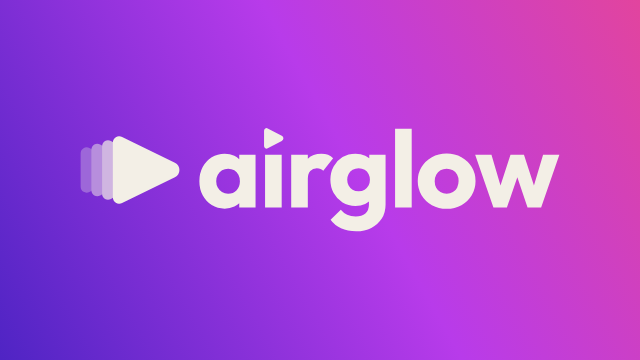
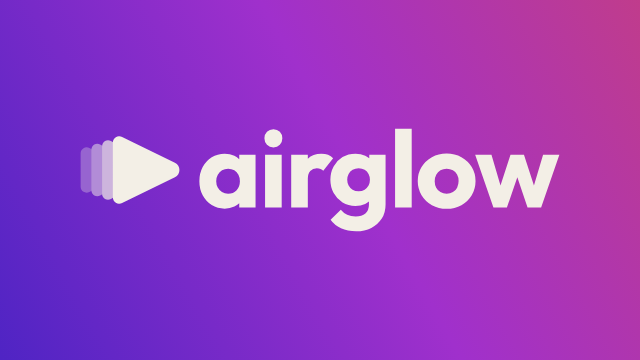
Brand v5.4 final fixes and UI phase: work in progress
Claude-Session: https://claude.ai/code/session_015UgfZhFtzJizh9RMWRrN9x

diff --git a/design/brand-v5/v5.4/tools/assets3.js b/design/brand-v5/v5.4/tools/assets3.js
@@ -6,7 +6,11 @@ const W = (s, vb, w, h) => `<svg xmlns="http://www.w3.org/2000/svg" viewBox="${v
 // ---- mark (on canvas / dark) and small mark (<= 40 px: two bands, wider steps) ----
 const mark = () => M3.svgMark('mk', FINAL, 6);
 const markSmall = () => M3.svgMark('ms', SMALL, 5);
-const lockup = () => L3.lockupSvg('lk', 'A', { lk: { gap: GAP } });
+const lockup = () => L3.lockupSvg('lk', 'A', { lk: { gap: GAP } });                                   // 40 px and up, on bg-0: gradient glow, wedge i-dot
+const lockupCompact = () => L3.lockupSvg('lc', 'A', { lk: { gap: GAP }, word: { dot: false } });         // under 40 px: round i-dot
+const CH = P['text-1'], chalkBands = [.3, .5, .7].map(a => `${CH}" fill-opacity="${a}`);
+const lockupChalk = () => L3.lockupSvg('ch', 'A', { lk: { gap: GAP }, mark: { frontFill: CH, bandFills: chalkBands }, word: { split: false, dot: true, dotFill: CH } });        // any surface except bg-0, 40 px and up
+const lockupChalkCompact = () => L3.lockupSvg('cc', 'A', { lk: { gap: GAP }, mark: { frontFill: CH, bandFills: chalkBands }, word: { split: false, dot: false } });   // any surface, under 40 px
 // ---- icon: deepened tile (violet to orchid to deep pink) + chalk wedge + solid chalk-tint bands ----
 const S_ICON = 3.5, BANDS = [.3, .5, .7]; I3.V.F1.band = BANDS;
 const icon = () => I3.iconSvg('F1', 512, S_ICON);
@@ -19,15 +23,15 @@ const iconBg = () => { const p = I3.iconParts('F1', 108, FG_S); return W(`<defs>
 // mark-micro: plain gradient wedge for under 24 px (no bands)
 const markMicro = () => { const M2 = require('./mark2.js'); const d = M2.tri(0, -35, 35, FINAL.L, FINAL.ra, FINAL.rb); return W(`<defs><linearGradient id="mi" x1="0" y1="-35" x2="${FINAL.L}" y2="35" gradientUnits="userSpaceOnUse"><stop offset="0" stop-color="${P.pink}"/><stop offset="1" stop-color="${P.orchid}"/></linearGradient></defs><path d="${d}" fill="url(#mi)"/>`, `-3 -38 ${FINAL.L + 6} 76`, FINAL.L + 6, 76); };
 // ---- banners 320x180: the primary is the icon's sibling (same ramp, chalk wedge + chalk-tint solid bands, chalk wordmark); the dark one is the alternative ----
-const banner = () => { const stops = I3.TILES.family, vx = 320, vy = -180, field = (x, y) => { const t = Math.max(0, Math.min(1, (x * vx + (y - 180) * vy) / (vx * vx + vy * vy))); const seg = (a, b, u) => I3.mixRgb(I3.hx(a), I3.hx(b), u); for (let i = 1; i < stops.length; i++) if (t <= stops[i][0]) return seg(stops[i - 1][1], stops[i][1], (t - stops[i - 1][0]) / (stops[i][0] - stops[i - 1][0])); return I3.hx(stops[stops.length - 1][1]); };
+const banner = () => { const stops = I3.TILES.banner, vx = 320, vy = -180, field = (x, y) => { const t = Math.max(0, Math.min(1, (x * vx + (y - 180) * vy) / (vx * vx + vy * vy))); const seg = (a, b, u) => I3.mixRgb(I3.hx(a), I3.hx(b), u); for (let i = 1; i < stops.length; i++) if (t <= stops[i][0]) return seg(stops[i - 1][1], stops[i][1], (t - stops[i - 1][0]) / (stops[i][0] - stops[i - 1][0])); return I3.hx(stops[stops.length - 1][1]); };
   const w = 244, chalk = P['text-1'], l0 = L3.lockup('x', 'A', { lk: { gap: GAP } }), sc = w / l0.vb[2], ox = (320 - w) / 2, oy = (180 - l0.vb[3] * sc) / 2;
   const cols = [0, 1, 2].map(i => I3.toHex(I3.mixRgb(field(ox + (8 + i * 14) * sc, 90), I3.hx(chalk), [.3, .5, .7][i])));
-  const l = L3.lockup('bg', 'A', { lk: { gap: GAP }, mark: { frontFill: chalk, bandFills: cols }, word: { split: false, dot: true, dotFill: chalk } });
+  const l = L3.lockup('bg', 'A', { lk: { gap: GAP }, mark: { frontFill: chalk, bandFills: cols }, word: { split: false, dot: false } });
   return W(`<defs><linearGradient id="bgf" x1="0" y1="180" x2="320" y2="0" gradientUnits="userSpaceOnUse">${stops.map(([t, h]) => `<stop offset="${t}" stop-color="${h}"/>`).join('')}</linearGradient></defs><rect width="320" height="180" fill="url(#bgf)"/><svg x="${r(ox)}" y="${r(oy)}" width="${r(w)}" height="${r(l.vb[3] * sc)}" viewBox="${l.vb.map(r).join(' ')}">${l.body}</svg>`, '0 0 320 180', 320, 180); };
-const bannerDark = () => { const l = L3.lockup('bn', 'A', { lk: { gap: GAP } }); const w = 236, sc = w / l.vb[2], h = l.vb[3] * sc;
+const bannerDark = () => { const l = L3.lockup('bn', 'A', { lk: { gap: GAP }, word: { dot: false } }); const w = 236, sc = w / l.vb[2], h = l.vb[3] * sc;
   return W(`<rect width="320" height="180" fill="${P['bg-0']}"/><svg x="${r((320 - w) / 2)}" y="${r((180 - h) / 2)}" width="${r(w)}" height="${r(h)}" viewBox="${l.vb.map(r).join(' ')}">${l.body}</svg>`, '0 0 320 180', 320, 180); };
 function writeAll() { fs.mkdirSync(dir, { recursive: true });
-  const f = { 'mark.svg': mark(), 'mark-small.svg': markSmall(), 'lockup.svg': lockup(), 'icon-1024.svg': icon(), 'icon-small.svg': iconSmall(), 'icon-foreground.svg': iconFg(), 'icon-background.svg': iconBg(), 'banner.svg': banner(), 'banner-dark.svg': bannerDark(), 'mark-micro.svg': markMicro() };
+  const f = { 'mark.svg': mark(), 'mark-small.svg': markSmall(), 'lockup.svg': lockup(), 'lockup-compact.svg': lockupCompact(), 'lockup-chalk.svg': lockupChalk(), 'lockup-chalk-compact.svg': lockupChalkCompact(), 'icon-1024.svg': icon(), 'icon-small.svg': iconSmall(), 'icon-foreground.svg': iconFg(), 'icon-background.svg': iconBg(), 'banner.svg': banner(), 'banner-dark.svg': bannerDark(), 'mark-micro.svg': markMicro() };
   for (const [k, v] of Object.entries(f)) fs.writeFileSync(path.join(dir, k), v); console.log('assets written', Object.keys(f).length); }
-module.exports = { mark, markSmall, markMicro, lockup, icon, iconSmall, iconFg, iconBg, banner, bannerDark, writeAll, get FG_S() { return FG_S; } };
+module.exports = { lockupCompact, lockupChalk, mark, markSmall, markMicro, lockup, icon, iconSmall, iconFg, iconBg, banner, bannerDark, writeAll, get FG_S() { return FG_S; } };
 if (require.main === module) writeAll();

diff --git a/design/brand-v5/v5.4/board.html b/design/brand-v5/v5.4/board.html
@@ -32,6 +32,8 @@ h2{font:650 11px/16px var(--a-font-text);letter-spacing:.12em;text-transform:upp
 
 <div class="card" style="margin-bottom:18px"><h2>Wordmark options (tests/word-refine.png, large / 32 px / 19 px / blur)</h2><div class="fl" style="gap:18px;flex-direction:column;align-items:flex-start"><div class="fl" style="gap:22px"><img src="tests/word-W0.svg" style="height:56px"><img src="tests/word-W0.svg" style="height:24px"><div class="cap" style="margin:0"><b style="color:var(--a-text-1)">W0</b> v5.3: stock, all chalk, the "ai" read</div></div><div class="fl" style="gap:22px"><img src="tests/word-W1.svg" style="height:56px"><img src="tests/word-W1.svg" style="height:24px"><div class="cap" style="margin:0"><b style="color:var(--a-text-1)">W1</b> air chalk, glow in the pink to orchid gradient</div></div><div class="fl" style="gap:22px"><img src="tests/word-W2.svg" style="height:56px"><img src="tests/word-W2.svg" style="height:24px"><div class="cap" style="margin:0"><b style="color:var(--a-text-1)">W2</b> W1 + tracking -2%</div></div><div class="fl" style="gap:22px"><img src="tests/word-W3.svg" style="height:56px"><img src="tests/word-W3.svg" style="height:24px"><div class="cap" style="margin:0"><b style="color:var(--a-text-1)">W3</b> chosen: W2 + the i-dot is the mark wedge</div></div></div></div>
 
+<div class="card" style="margin-bottom:18px"><h2>Lockup set (which file where)</h2><div class="fl" style="gap:22px;align-items:flex-start"><div><img src="assets/lockup.svg" style="height:44px"><div class="cap">lockup.svg: 40 px high and up, on bg-0 only (gradient glow, wedge i-dot)</div></div><div><img src="assets/lockup-compact.svg" style="height:30px"><div class="cap">lockup-compact.svg: under 40 px and the banner, bg-0 only (round i-dot)</div></div><div style="background:var(--a-surface-1);padding:10px;border-radius:8px"><img src="assets/lockup-chalk.svg" style="height:44px"><div class="cap">lockup-chalk.svg: any other surface, 40 px and up</div></div><div style="background:var(--a-surface-1);padding:10px;border-radius:8px"><img src="assets/lockup-chalk-compact.svg" style="height:30px"><div class="cap">lockup-chalk-compact.svg: any other surface, under 40 px</div></div></div></div>
+
 <div class="card" style="margin-bottom:18px"><h2>Icon tile: kept (owner decision)</h2><div class="fl" style="gap:16px"><img src="assets/icon-1024.png" style="width:96px;border-radius:21px"><div class="tile" style="width:96px;height:96px;border-radius:21px;background:#9146FF">twitch-like</div><div class="cap" style="max-width:560px;margin:0">The tile keeps the owner's pink-to-violet ramp (violet #4F24C4, orchid #B83BEA, pink #E2449E). The reviewer measured the violet corners at about dE 7 to 9 from Twitch purple; the owner decided that is fine: the tile, the mark and the shape look nothing like Twitch's glyph, only a corner hue is near. The banner uses the same ramp.</div></div></div>
 
 <div class="row" style="grid-template-columns:260px 1fr">
@@ -40,8 +42,8 @@ h2{font:650 11px/16px var(--a-font-text);letter-spacing:.12em;text-transform:upp
   <div class="fl" style="gap:8px;margin-top:10px"><img src="assets/icon-1024.png" style="width:56px;border-radius:13px"><img src="assets/icon-1024.png" style="width:36px;border-radius:9px"><img src="assets/icon-small-256.png" style="width:36px;border-radius:9px"><img src="assets/icon-1024.png" style="width:24px;border-radius:6px"><div class="tile" style="background:#9146FF">tw</div><div class="tile" style="background:#E50914">N</div><div class="tile" style="background:#0B2A6B">D+</div></div><div class="cap">56 / 36 / 36 (icon-small) / 24, then Twitch-like, Netflix-like, Disney-like.</div>
   <div class="fl" style="gap:14px;margin-top:10px;align-items:flex-end"><img src="assets/mark.svg" style="width:56px"><img src="assets/mark-small.svg" style="width:32px"><img src="assets/mark-micro.svg" style="width:20px"><img src="assets/mark-micro.svg" style="width:16px"></div><div class="cap">three bands, two bands (40 and below), plain wedge (micro, under 24)</div></div>
  <div class="card"><h2>Google TV banner 320 × 180: icon and banners are one family</h2><div class="fl" style="gap:10px;align-items:flex-start">
-  <div><div class="bn"><img src="assets/banner@2x.png"></div><div class="cap" style="width:200px"><b style="color:var(--a-text-1)">Primary:</b> the icon's ramp, chalk wedge and chalk-tint bands, chalk wordmark</div></div>
-  <div><div class="bn"><img src="assets/banner-dark.png"></div><div class="cap" style="width:200px">Alternative: canvas with the full-colour lockup (W3)</div></div>
+  <div><div class="bn"><img src="assets/banner@2x.png"></div><div class="cap" style="width:200px"><b style="color:var(--a-text-1)">Primary:</b> the icon's hues with the right end deepened (chalk 4.5:1 behind the lockup), chalk wedge, chalk-tint bands, chalk wordmark, round i-dot</div></div>
+  <div><div class="bn"><img src="assets/banner-dark.png"></div><div class="cap" style="width:200px">Alternative: canvas with the compact lockup (round i-dot)</div></div>
   <div><div class="bn" style="background:#9146FF">twitch-like</div><div class="cap" style="width:200px">neighbour</div></div></div><div class="cap">Test both on the TV in Standard and Vivid: the gradient banner is the loud one.</div></div>
 </div>
 

diff --git a/design/brand-v5/v5.4/tools/board.js b/design/brand-v5/v5.4/tools/board.js
@@ -38,6 +38,8 @@ h2{font:650 11px/16px var(--a-font-text);letter-spacing:.12em;text-transform:upp
 
 <div class="card" style="margin-bottom:18px"><h2>Wordmark options (tests/word-refine.png, large / 32 px / 19 px / blur)</h2><div class="fl" style="gap:18px;flex-direction:column;align-items:flex-start">${[['W0','v5.3: stock, all chalk, the "ai" read'],['W1','air chalk, glow in the pink to orchid gradient'],['W2','W1 + tracking -2%'],['W3','chosen: W2 + the i-dot is the mark wedge']].map(([k,t])=>`<div class="fl" style="gap:22px"><img src="tests/word-${k}.svg" style="height:56px"><img src="tests/word-${k}.svg" style="height:24px"><div class="cap" style="margin:0"><b style="color:var(--a-text-1)">${k}</b> ${t}</div></div>`).join('')}</div></div>
 
+<div class="card" style="margin-bottom:18px"><h2>Lockup set (which file where)</h2><div class="fl" style="gap:22px;align-items:flex-start"><div><img src="assets/lockup.svg" style="height:44px"><div class="cap">lockup.svg: 40 px high and up, on bg-0 only (gradient glow, wedge i-dot)</div></div><div><img src="assets/lockup-compact.svg" style="height:30px"><div class="cap">lockup-compact.svg: under 40 px and the banner, bg-0 only (round i-dot)</div></div><div style="background:var(--a-surface-1);padding:10px;border-radius:8px"><img src="assets/lockup-chalk.svg" style="height:44px"><div class="cap">lockup-chalk.svg: any other surface, 40 px and up</div></div><div style="background:var(--a-surface-1);padding:10px;border-radius:8px"><img src="assets/lockup-chalk-compact.svg" style="height:30px"><div class="cap">lockup-chalk-compact.svg: any other surface, under 40 px</div></div></div></div>
+
 <div class="card" style="margin-bottom:18px"><h2>Icon tile: kept (owner decision)</h2><div class="fl" style="gap:16px"><img src="assets/icon-1024.png" style="width:96px;border-radius:21px"><div class="tile" style="width:96px;height:96px;border-radius:21px;background:#9146FF">twitch-like</div><div class="cap" style="max-width:560px;margin:0">The tile keeps the owner's pink-to-violet ramp (violet #4F24C4, orchid #B83BEA, pink #E2449E). The reviewer measured the violet corners at about dE 7 to 9 from Twitch purple; the owner decided that is fine: the tile, the mark and the shape look nothing like Twitch's glyph, only a corner hue is near. The banner uses the same ramp.</div></div></div>
 
 <div class="row" style="grid-template-columns:260px 1fr">
@@ -46,8 +48,8 @@ h2{font:650 11px/16px var(--a-font-text);letter-spacing:.12em;text-transform:upp
   <div class="fl" style="gap:8px;margin-top:10px"><img src="assets/icon-1024.png" style="width:56px;border-radius:13px"><img src="assets/icon-1024.png" style="width:36px;border-radius:9px"><img src="assets/icon-small-256.png" style="width:36px;border-radius:9px"><img src="assets/icon-1024.png" style="width:24px;border-radius:6px"><div class="tile" style="background:#9146FF">tw</div><div class="tile" style="background:#E50914">N</div><div class="tile" style="background:#0B2A6B">D+</div></div><div class="cap">56 / 36 / 36 (icon-small) / 24, then Twitch-like, Netflix-like, Disney-like.</div>
   <div class="fl" style="gap:14px;margin-top:10px;align-items:flex-end"><img src="assets/mark.svg" style="width:56px"><img src="assets/mark-small.svg" style="width:32px"><img src="assets/mark-micro.svg" style="width:20px"><img src="assets/mark-micro.svg" style="width:16px"></div><div class="cap">three bands, two bands (40 and below), plain wedge (micro, under 24)</div></div>
  <div class="card"><h2>Google TV banner 320 × 180: icon and banners are one family</h2><div class="fl" style="gap:10px;align-items:flex-start">
-  <div><div class="bn"><img src="assets/banner@2x.png"></div><div class="cap" style="width:200px"><b style="color:var(--a-text-1)">Primary:</b> the icon's ramp, chalk wedge and chalk-tint bands, chalk wordmark</div></div>
-  <div><div class="bn"><img src="assets/banner-dark.png"></div><div class="cap" style="width:200px">Alternative: canvas with the full-colour lockup (W3)</div></div>
+  <div><div class="bn"><img src="assets/banner@2x.png"></div><div class="cap" style="width:200px"><b style="color:var(--a-text-1)">Primary:</b> the icon's hues with the right end deepened (chalk 4.5:1 behind the lockup), chalk wedge, chalk-tint bands, chalk wordmark, round i-dot</div></div>
+  <div><div class="bn"><img src="assets/banner-dark.png"></div><div class="cap" style="width:200px">Alternative: canvas with the compact lockup (round i-dot)</div></div>
   <div><div class="bn" style="background:#9146FF">twitch-like</div><div class="cap" style="width:200px">neighbour</div></div></div><div class="cap">Test both on the TV in Standard and Vivid: the gradient banner is the loud one.</div></div>
 </div>
 

diff --git a/design/brand-v5/v5.4/tools/build-tokens.js b/design/brand-v5/v5.4/tools/build-tokens.js
@@ -8,7 +8,7 @@ const css = `/* airglow tokens v5.4: dark, TV-first, Soft identity with a Sharp 
    Performance rules baked into these tokens: no filter:blur, no big box-shadow spreads, gradients are two stops, there are no glows in sprites/. */
 
 :root {
-  /* ---- surfaces: one hue (295), chroma .02 (v5.1 .032: tinted artwork); steps vs canvas 1.35 / 1.71 / 2.26:1; no channel below 18/255; native splash and window background = bg-0 ---- */
+  /* ---- surfaces: one hue (295), chroma .02 (v5.1 .032: tinted artwork); steps vs canvas 1.32 / 1.67 / 2.20:1; no channel below 19/255; native splash and window background = bg-0 ---- */
   --a-bg-0:        ${P['bg-0']};   /* ${o('bg-0')}  canvas, rail, letterbox */
   --a-bg-1:        ${P['bg-1']};   /* ${o('bg-1')}  raised regions, sheets, top bars */
   --a-surface-1:   ${P['surface-1']};   /* ${o('surface-1')}  cards, rows, tiles */
@@ -49,7 +49,7 @@ const css = `/* airglow tokens v5.4: dark, TV-first, Soft identity with a Sharp 
   --a-grain:         url("sprites/grain.png");   /* repeat over large fills at its own 7/255 alpha: kills banding */
 
   /* ---- type: three families, three weights of display + one variable text face, ~100 KB of woff2 (Latin only) ---- */
-  --a-font-display: "Outfit", system-ui, sans-serif;            /* 500 (air, sub-heads) / 700 (glow, titles) */
+  --a-font-display: "Outfit", system-ui, sans-serif;            /* 700 titles and wordmark; 500 only for small sub-heads */
   --a-font-text:    "Inter Variable", "Inter", system-ui, sans-serif;   /* all reading text, tables, numerals (tabular) */
   --a-font-live:    "Barlow Condensed", "Outfit", sans-serif;   /* 800 italic: Sharp dialect only, <= 3 words or a score */
   --a-size-display: 40px; --a-lh-display: 44px;   /* page titles */

diff --git a/design/brand-v5/v5.4/tokens.css b/design/brand-v5/v5.4/tokens.css
@@ -4,7 +4,7 @@
    Performance rules baked into these tokens: no filter:blur, no big box-shadow spreads, gradients are two stops, there are no glows in sprites/. */
 
 :root {
-  /* ---- surfaces: one hue (295), chroma .02 (v5.1 .032: tinted artwork); steps vs canvas 1.35 / 1.71 / 2.26:1; no channel below 18/255; native splash and window background = bg-0 ---- */
+  /* ---- surfaces: one hue (295), chroma .02 (v5.1 .032: tinted artwork); steps vs canvas 1.32 / 1.67 / 2.20:1; no channel below 19/255; native splash and window background = bg-0 ---- */
   --a-bg-0:        #15131D;   /* L.19 C.020 h294  canvas, rail, letterbox */
   --a-bg-1:        #1E1B28;   /* L.23 C.025 h295  raised regions, sheets, top bars */
   --a-surface-1:   #2D2B35;   /* L.30 C.018 h294  cards, rows, tiles */
@@ -45,7 +45,7 @@
   --a-grain:         url("sprites/grain.png");   /* repeat over large fills at its own 7/255 alpha: kills banding */
 
   /* ---- type: three families, three weights of display + one variable text face, ~100 KB of woff2 (Latin only) ---- */
-  --a-font-display: "Outfit", system-ui, sans-serif;            /* 500 (air, sub-heads) / 700 (glow, titles) */
+  --a-font-display: "Outfit", system-ui, sans-serif;            /* 700 titles and wordmark; 500 only for small sub-heads */
   --a-font-text:    "Inter Variable", "Inter", system-ui, sans-serif;   /* all reading text, tables, numerals (tabular) */
   --a-font-live:    "Barlow Condensed", "Outfit", sans-serif;   /* 800 italic: Sharp dialect only, <= 3 words or a score */
   --a-size-display: 40px; --a-lh-display: 44px;   /* page titles */

diff --git a/design/brand-v5/v5.4/tools/icon3.js b/design/brand-v5/v5.4/tools/icon3.js
@@ -9,6 +9,7 @@ const TILES = {
   owner: [[0, '#5B2BD9'], [.5, '#E04BFF'], [1, '#FF5CB8']],            // the v5 tile (pink to violet)
   deep: [[0, '#4F24C4'], [.55, '#B83BEA'], [1, '#E2449E']],             // chalk-safe: no light pink anywhere near the wedge
   warm: [[0, '#F95BAC'], [1, '#D540F5']],
+  banner: [[0, '#4F24C4'], [.55, '#A030CC'], [1, '#C03C8C']],         // v5.4 final: the banner ramp, right end deepened so chalk is 4.5:1 or better behind the lockup
   family: [[0, '#4F24C4'], [.55, '#B83BEA'], [1, '#E2449E']],        // the owner's pink-to-violet tile (v5.3 ramp, kept by owner decision); icon and banner share it
 };
 const V = {

diff --git a/design/brand-v5/v5.4/BRIEF-for-UI.md b/design/brand-v5/v5.4/BRIEF-for-UI.md
@@ -1,0 +1,235 @@
+# airglow: brief for the UI designer
+
+Version v5.4 (brand approved, reviewer 7.5/10). This is the working reference for designing every screen of the app. It tells you what is fixed, what is free, and why. Where this brief and `BRAND.md` disagree, `BRAND.md` and `tokens.css` win; tell the brand consultant and the brief gets fixed.
+
+**One sentence of brand:** a play wedge that leaves a lit, stepped afterimage ("a signal travels through the air and leaves a glow behind it"), in pink to orchid on a violet-ink canvas, calm by default and sharp only for live sport.
+
+---
+
+## 1. Context you need
+
+- A personal TV app for the owner: live TV channels, a guide, movies and series, NBA and other live sport. It runs as a WebView UI (Chrome 113) on an Android TV / Google TV box on a 1080p TV, driven by a **d-pad remote**. No touch, no hover, no pointer.
+- Playback happens in the **native Android player** (Media3), not in the WebView. The player's overlay, dialogs, subtitles and stats are themed natively (section 5).
+- The owner wants it **creative, top notch, and not tied to the current app's screens**. Layout, navigation and screen structure are yours (section 9). The brand is the constraint on look and feel, not on structure.
+- Name clash: "airglow" is a personal name, not trademark-cleared; the "ai" reading is an accepted risk. Do not design around it.
+
+## 2. What is fixed
+
+### 2.1 Logo: which file where
+
+| Situation | File | Notes |
+|---|---|---|
+| Wordmark on **bg-0**, 40 px high and up | `assets/lockup.svg` | gradient "glow", wedge i-dot |
+| Wordmark on bg-0, **under 40 px**, and the banner | `assets/lockup-compact.svg` | round i-dot |
+| Wordmark on **any other surface** (bg-1, cards, artwork, gradient), 40 px and up | `assets/lockup-chalk.svg` | all chalk, bands at 30 / 50 / 70% chalk |
+| Same, under 40 px | `assets/lockup-chalk-compact.svg` | |
+| Mark alone, 48 px and up | `assets/mark.svg` | wedge + 3 bands |
+| Mark alone, 24 to 48 px | `assets/mark-small.svg` | wedge + 2 bands |
+| Mark alone, **under 24 px** | `assets/mark-micro.svg` | plain wedge, no bands |
+| App icon | `assets/icon-1024.svg/.png`, adaptive `icon-foreground` + `icon-background`, `icon-small` (48 px and below) | |
+| Banner | `assets/banner.svg` (gradient, primary), `banner-dark.svg` (alternative) | |
+
+Rules: the lockup contains the mark, so **mark and lockup never share a screen**. The gradient "glow" word exists only on bg-0. Never recolour, outline, skew, animate the shapes apart (except the launch), add glow, shadow or blur. Clear space = half the wedge height. Minimum mark size 16 px (micro). The rail uses the mark; the splash and About use the lockup.
+
+Launch (1100 ms, see `launch.png`): static wedge on bg-0 (native splash, same colour as the canvas so nothing flashes) → bands slide out from behind the wedge (300 ms, 40 ms stagger) → lockup at 700 ms → 8° soft wipe to Home at 1100 ms. Reduced motion: static wedge, then a 120 ms fade.
+
+### 2.2 Colour roles (all values in `tokens.css`; every pair is checked, `node tools/contrast.js` = 0 failures)
+
+| Role | Token | Hex | Use |
+|---|---|---|---|
+| Canvas | `--a-bg-0` | `#15131D` | the screen background, rail, splash, window |
+| Raised | `--a-bg-1` | `#1E1B28` | sheets, dialogs, top bars, OSD |
+| Card | `--a-surface-1` | `#2D2B35` | cards, rows, fields (1.32:1 vs canvas) |
+| Selected / track | `--a-surface-2` | `#3D3B45` | selected row, progress track, toggle track (1.67:1) |
+| Pressed / chip | `--a-surface-3` | `#4F4C5A` | pressed, chips (2.20:1). **No status text on it.** |
+| Text 1 / 2 / 3 | `--a-text-1/2/3` | `#F3EFE6` / `#D2CEE2` / `#C8C4D8` | all >= 4.5:1 on all five surfaces |
+| Disabled | `--a-text-4` | `#726E81` | disabled controls only, never information |
+| Brand fills | `--a-pink` `--a-orchid` | `#F95BAC` `#D540F5` | fills, strokes, progress (>= 3:1 on bg-0 to surface-2) |
+| Brand as text | `--a-pink-text` `--a-orchid-text` | `#FFB4D4` `#E9AFF2` | the only way brand colour is used as text |
+| The gradient | `--a-grad` | `linear-gradient(100deg,#F95BAC,#D540F5)` | primary buttons, progress, Sharp slab. Two stops, always |
+| Ink | `--a-ink` | `#14101F` | labels and glyphs **on** the gradient (5.2 to 6.3:1). Chalk on the gradient is 2.6 to 3.1:1: never |
+| Violet stroke | `--a-violet-ui` | `#9D7DFF` | the only violet allowed as a UI line |
+| LIVE | `--a-live` / `--a-live-text` | `#FF4B4B` / `#FF8F8F` | LIVE only (below) |
+| OK | `--a-ok` | `#47D394` | healthy state, always with an icon |
+| Focus | `--a-focus` | `#FFFFFF` | the ring (18.9:1 on canvas) |
+| Borders | `--a-border`, `--a-border-strong` | `#3C3452`, `#918BA7` | decorative 1 px; strong = fields, unselected chips, toggle track (3:1+) |
+
+Hard colour rules, with reasons:
+1. **Red is LIVE and nothing else.** Always a 2 px red outline pill + dot + the word LIVE; never a fill, never alone. Reason: a colour that means one thing is read in a glance across the room.
+2. **Nothing amber or yellow.** Not for ratings, not for warnings. Reason: yellow is IMDb's; stars are chalk.
+3. **Errors and warnings are neutral:** outline icon + a plain sentence in chalk on a surface. No red, no amber, no exclamation mark. Reason: red must keep meaning LIVE.
+4. **Violet is not UI colour.** It lives only as the back band of the mark. Strokes use `violet-ui`. Reason: violet on the canvas is 2.4:1 and sits next to Twitch.
+5. **No glow, no blur, no soft shadow.** The owner called the glow version "cheaply made". Separation comes from surface steps, 1 px borders and the focus ring.
+6. Brand colour as text uses `pink-text` / `orchid-text`, never `pink` / `orchid`.
+7. Only these gradients exist: pink to orchid (UI), the tile ramp (icon), the banner ramp, and one flat 2-stop `bg-1` to `bg-0` vertical backdrop. No full-screen colourful gradients.
+
+### 2.3 Type (`tokens.css`, 960 × 540 CSS px)
+
+| Role | Face | Size / line |
+|---|---|---|
+| Display (page title) | Outfit 700, -0.01em | 40 / 44 |
+| Head | Outfit 700 | 28 / 32 |
+| Title | Outfit 700 or Inter 650 | 22 / 28 |
+| Body | Inter Variable 500 | 16 / 24 |
+| Label (caps, +0.08em) | Inter 650 | 14 / 18 |
+| **Caption: the floor, nothing smaller** | Inter 500, tabular | 13 / 16 |
+| Score (Sharp only) | Barlow Condensed 800 italic, tabular | 56 / 52 |
+
+Numerals in the guide, clocks, scores and durations are tabular. Fonts are bundled (99 KB, OFL, `fonts.css`). Do not add a font. Reasons: reading distance is ~3 m; 13 px at 960 wide is 26 px on the 1080p panel, which is the practical floor; one text face keeps tables aligned.
+
+### 2.4 Surfaces, shape, spacing, safe area
+
+- Cards: `surface-1`, radius 16, 1 px `--a-border`. Rows radius 8 to 12. Pills 999. Dialogs 24.
+- Spacing steps 4 / 8 / 12 / 16 / 24 / 32. **Safe area: 48 px horizontal, 27 px vertical** (5%); nothing interactive outside it.
+- Canvas is flat. Large flat fills may carry `sprites/grain.png` (7/255 alpha) to prevent banding on 8-bit panels.
+- Weak panels crush blacks, so never place content on a surface darker than the canvas; stay on the five surfaces.
+
+### 2.5 Focus, selection, states
+
+- **Focus** = 3 px white ring with a 2 px canvas gap (`--a-focus-ring`) on the focused element, plus `scale(1.05)` on cards and primary buttons (ring only on text-heavy rows and fields so text stays sharp). **Exactly one focused element per screen.** The ring alone must be enough to find focus from the sofa; do not add glow.
+- **Selected is not focused.** Selected persists after focus leaves and uses fill + a shape: chip = surface-3 fill + pink dot + `pink-text` bold; tab = chalk text + 3 px gradient underline; radio = pink dot; toggle = gradient track, ink knob, the word On/Off. A selected and focused element shows both.
+- Pressed = surface-3 (120 ms). Disabled = surface-2 fill with `text-4`, no ring ever.
+- **Error field:** dashed 2 px `text-2` outline, surface-2 fill, outline-icon disc at the right, one chalk sentence below. The ring remains the only white solid line.
+
+### 2.6 Motion
+
+Transform and opacity only. Durations: fast 120 ms (focus ring, press), 200 ms (focus lift, chips), 320 ms (sheets, crossfades), 280 ms (live wipe), 1100 ms (launch). Easing `cubic-bezier(.2,.7,.2,1)`; wipe `cubic-bezier(.7,0,.2,1)`. Nothing loops except a spinner. Honour reduced motion. Never animate `width`, `height`, `top`, `left`, `box-shadow` or `filter`.
+
+### 2.7 The Sharp dialect (live and NBA only)
+
+One identity, two angles: **12° for everything live, 8° for everything soft.** Nothing else slants. "Live" = anything carrying the LIVE pill, plus the NBA section.
+
+May slant at 12° (the shape behind, never the text):
+- score plates: a `surface-1` plate skewed −12° with upright text inside (`transform: skewX(-12deg)`, children `skewX(12deg)`);
+- one pink to orchid slab per live hero, under 25% of the hero, with a thin orchid line parallel to it;
+- the wipe between live states (280 ms), never for normal navigation.
+
+May use italic condensed (Barlow Condensed 800 italic): scores, and a title of three words or fewer, only inside the Sharp dialect.
+
+**Never slants:** body text, labels, captions, anything over three words; box scores, standings, tables, schedules; channel rows and the guide (even a LIVE row); buttons, chips, fields, dialogs, tabs, focus rings; the mark and lockups. Soft's own 8° edge is for a hero edge and the launch wipe only.
+
+Reason: Sharp gives live its urgency; letting it leak into reading surfaces would make the whole app two brands. See `components.png` for the "don't" row.
+
+## 3. Component rules
+
+All specimens are in `components.png` (source `components.html`, built by `tools/components.js`; copy markup and classes from there).
+
+| Component | Spec |
+|---|---|
+| **Primary button** | 44 px high, pill, `--a-grad`, ink label Outfit 700 17 px, 24 px side padding, optional leading play glyph. One per screen. Focus: ring + scale 1.05. |
+| **Secondary button** | 44 px, pill, transparent, 2 px `border-strong`, chalk label. Focus: ring (inside the strong border). |
+| **Disabled button** | surface-2 fill, `text-4`, no ring. |
+| **Chip** | 32 px, pill, surface-2 fill, `text-2`, Inter 650 14. Selected: surface-3, pink dot, `pink-text`, bold. |
+| **Tab** | 40 px, text-3; selected chalk + 3 px gradient underline inset 16 px. |
+| **LIVE badge** | `.a-live`: 22 px, 2 px red outline pill, 7 px red dot, word LIVE in `live-text`, 16% red tint fill. One per row or card. |
+| **Poster card (16:9)** | radius 16, 1 px border, art fills, title Inter 650 15 over a bottom scrim, meta 13 `text-2`, 4 px progress bar flush to the bottom edge (gradient on surface-2 track). Focus: ring + scale 1.05. |
+| **Progress bar** | 4 to 6 px, radius 2, gradient fill, `surface-2` track. Pink to orchid only; violet never. |
+| **Channel row** | 56 px, surface-1, 1 px border, radius 8; number (tabular, `text-3`) · logo tile 40 · title Inter 650 15 + sub 13 `text-3` · now-playing bar 90 px. Selected = surface-2, border off. Never skewed, even when LIVE. |
+| **Input field** | 48 px, radius 12, surface-1, 2 px `border-strong`, placeholder `text-3`, value `text-1`. Focus = ring. Error as in 2.5. |
+| **Toggle** | 52 × 30, track surface-2 + 2 px `border-strong`; on = gradient + ink knob; the label always says On/Off. |
+| **Dialog / sheet** | bg-1, radius 24, 1 px border, 20/16 padding, title Outfit 700 22/28, list rows 48 px (focused row = surface-3 + ring), buttons right-aligned with the primary last; scrim `rgba(21,19,29,.72)` behind. |
+| **Error / empty state** | neutral surface-1 card, 48 px icon disc (outline icon, `text-1`), Outfit 700 18 title, one sentence in `text-2`, one button (secondary for retry, primary for an action). No red, no amber. |
+| **Score plate / live hero / wipe** | Sharp dialect (2.7); specimens in `components.png`. |
+
+Missing components you will need (carousel rows, hero, top bar, guide grid, search keyboard, settings list, toast, skeleton): design them freely from the tokens above, using surfaces + borders for structure and the ring for focus; send them for a brand check. Skeletons are flat surface-2 blocks with no shimmer.
+
+## 4. Brand in practice: tone
+
+Calm, confident, quiet in Soft; fast and punchy in Sharp. Sentence-case copy, no exclamation marks, no emoji. Time as 21:30, duration as 1h 48m, tabular. Copy is short enough to read from the sofa.
+
+## 5. Native player theme (the owner watches here)
+
+Values are dp = CSS px at 2× on a 960 × 540 dp screen. Sheet in `components.png`; keep it as written unless the brand check says otherwise.
+
+| Part | Spec |
+|---|---|
+| Window / background | bg-0 `#15131D` |
+| OSD banner | top, 24 dp from the safe edge, 64 dp high, bg-1 at 92%, radius 14; channel tile 44; title Inter 650 16/20; meta 13/16 `text-2`; LIVE pill at the right; 4 dp gradient progress; auto-hide 4 s |
+| Hint bar | bottom, 34 dp, scrim 72%; key caps surface-2 + chalk 13/16; labels 13/16 `text-2` (OK Pause · ◀ ▶ Seek · ▲ ▼ Channels · MENU Options) |
+| Options dialog and lists (Android / Media3) | bg-1, radius 24 dp, title Outfit 700 22/28, rows 48 dp Inter 16/24, secondary 13 `text-3`; focused row = surface-3 + 3 dp white ring (2 dp canvas gap); radio, check and seek tint = pink `#F95BAC` |
+| Subtitles | chalk `#F3EFE6`, Inter 600, 5.3% of screen height (about 28 dp), black 1.5 dp edge, no box, bottom inset 10% |
+| Stats side panel | right, 250 dp, bg-1 at 94%, 13/18 tabular; labels `text-2`, values chalk; opened from Options, never over the OSD |
+| Seek bar / spinner | pink (gradient where the view allows), thumb chalk; spinner is a pink arc |
+
+The WebView UI and the native player must feel like one app: same surfaces, same focus ring, same pink selection tint.
+
+## 6. Performance budget (Chrome 113 TV WebView, 960 × 540 CSS px at 2×)
+
+The box is a low-end TV SoC; assume a weak GPU and a software-ish compositor.
+- **Forbidden:** `filter` (blur, drop-shadow), `backdrop-filter`, large `box-shadow` spreads (the 3 px ring is fine), `mix-blend-mode`, `mask-image` on moving things, animated gradients, SVG filters, canvas effects, video behind UI.
+- **Animate only** `transform` and `opacity`, on elements promoted with `will-change: transform` **only while focused** (remove on blur). One concurrent animation target on screen is the goal; never more than a handful.
+- **Gradients:** two stops, small elements. Large areas are flat colour; if a large area needs texture, use `grain.png` (tile 64 px).
+- **Images:** decode at display size (poster 16:9 cards ~ 220 × 124 CSS px = 440 × 248 device px); no images wider than 640 device px in rows; lazy-load off-screen rows; keep at most ~2 screens of cards in the DOM (virtualise rails and the guide grid).
+- **DOM budget:** under ~1500 nodes per screen; guide grid virtualised in both axes.
+- **Fonts:** only the bundled 99 KB; `font-display: swap`; the launch frame is outlined SVG so it never waits on fonts.
+- **Focus latency:** a d-pad press must move the ring within one frame (16 ms); do the move in `transform`/class swap, not by re-rendering a list.
+- **SVG:** the logo files are solid fills + linear gradients and are fine inline or as `<img>`. Use `<img>` for repeated marks.
+- **Start-up:** native splash is the static wedge (no WebView work before first paint); the 1.1 s launch animation runs on top of real loading, never in front of it (if data is ready earlier, still finish the wipe in 280 ms).
+
+## 7. Do and don't (and why)
+
+Do
+- Use the five surfaces and 1 px borders to build depth; use whitespace and scale for hierarchy. (Glow and shadows are banned; steps are the system.)
+- Put exactly one primary action on a screen. (Focus and decisions stay obvious.)
+- Make focus unmistakable at 3 m: ring first, scale second. (The ring is 18.9:1; scale alone gets lost.)
+- Show state with shape + text, never colour alone. (Colour-blind safety and weak panels.)
+- Keep text at 13 px or above and body at 16. (Distance reading.)
+- Give LIVE a consistent anatomy everywhere (outline pill, dot, word). (One meaning for red.)
+- Use real content in mocks: long titles, missing artwork, 20-channel lists. (The brand holds up on bad data, not just on hero art.)
+- Test every screen at 960 × 540 first, then check at 1920 × 1080 for fidelity.
+
+Don't
+- Don't use red, amber or yellow for anything but LIVE (red) or not at all (amber, yellow).
+- Don't use violet for UI, or chalk on the gradient, or gradient text on anything but bg-0 in the wordmark.
+- Don't add glow, bloom, blur, soft shadows, shimmer, particles. (Owner decision; also performance.)
+- Don't skew text, tables, rows or buttons; don't use any angle but 12° and 8°.
+- Don't show the mark and a lockup on one screen; don't redraw or recolour the logo.
+- Don't use a full-bleed colourful gradient as a background. (The canvas is the brand; colour is for actions and the mark.)
+- Don't rely on hover or touch; every interaction must work with the d-pad (up / down / left / right / OK / back).
+- Don't hide primary navigation from the d-pad or create focus traps; Back must always leave a layer.
+- Don't invent new colours or font sizes; request a token (section 10).
+
+## 8. Where everything lives (`design/brand-v5/v5.4/`)
+
+| Path | What |
+|---|---|
+| `BRAND.md` | the rules (read sections v5.4, 4 to 11) |
+| `tokens.css`, `fonts.css`, `fonts/`, `sprites/grain.png` | link these in every mock; `:root.desktop` overrides for non-TV |
+| `components.png`, `components.html`, `tools/components.js` | component specimens and markup to copy |
+| `context.png`, `context.html` | the one Soft + Sharp screen-like frame (a sample, not a layout to follow) |
+| `launch.png`, `launch.html` | launch storyboard |
+| `board.png` | one-page summary of the brand |
+| `assets/` | all logo files (section 2.1) and PNG exports |
+| `tools/palette.js`, `contrast.js` | the colour source and the contrast check (`node tools/contrast.js`) |
+| `tests/` | mark, lockup, wordmark and canvas experiments (history; do not reuse) |
+| `REVIEW-ui.md` (in each version) | the independent reviewer's findings |
+
+## 9. Where you have full freedom
+
+The owner wants a creative, top-notch result that does not copy the current app. These are open, and the brand does not constrain them:
+- **Navigation model:** rail, top tabs, a launcher-style home, a command bar, a radial or channel-first model; anything that works with a d-pad.
+- **Screen structure and layout:** home, discovery, guide, detail, search, NBA hub, settings, onboarding, empty and error screens; how many rows, how big the hero is, how information is grouped.
+- **Information design:** what is surfaced where, how "continue watching", live now, upcoming and favourites relate.
+- **Interaction design:** focus movement, row behaviour, how the guide scrolls, quick-switch of channels, how the player is entered and left, micro-interactions within the motion rules.
+- **Iconography:** a consistent outline icon set (24 px grid, 2 px stroke, round caps) is yours to draw; keep it neutral colour (`text-2`/`text-1`).
+- **Imagery treatment** of artwork (crop, scrim strength, text placement), within the contrast rules.
+- **Copy and empty-state illustration**, within the tone.
+- Anything not listed as fixed in section 2.
+
+If the best design needs something the brand forbids, say so and argue it: the consultant can approve a change, update the tokens, and re-run the contrast check.
+
+## 10. Open risks to resolve in the UI pass
+
+1. **Real posters over the canvas.** Only six synthetic gradients were tested (`tests/canvas-test.png`). With real artwork: check the scrim strength so card titles keep 4.5:1 on bright posters, whether the 1 px border still reads, and whether warm artwork and the violet-ink canvas fight. If they do, report it; the canvas chroma (.02) can be lowered.
+2. **Banner loudness on the TV.** The gradient banner is the primary and the loud one; the dark banner is the quiet alternative. Check both on the real TV in Standard and Vivid picture modes, in a dark room, next to other launcher tiles, and choose.
+3. **Sharp on dense NBA tables.** Sharp is proven on a score plate and a hero, not on box scores, standings or a schedule. The rule is: slant the plate behind, never the table. Test a 12-row box score, a standings table and a 7-game schedule at 960 × 540, and report whether the dialect still works or needs a rule (for example, only the header plate slants).
+4. **Surface steps on the Philips.** The steps (1.32 / 1.67 / 2.20) are calculated, not seen on the panel; if cards disappear in a dim room, the borders carry them; report it.
+5. **Icon and focus at distance.** Verify the 3 px ring and 1.05 scale at 3 m on every card density you propose (small cards may need ring only).
+6. **Native player parity.** The native theme is specified, not built; check it against the WebView UI once a build exists.
+
+## 11. Working with the brand consultant
+
+- **Brand checks:** send work in progress mid-way and before final. A check returns: a verdict (on brand / needs changes), the specific rule each issue breaks (with a token or section), and a fix. It does not judge layout choices or navigation.
+- **Deliver for a check:** PNGs at 1920 × 1080 (and the HTML if built from the tokens), the screen list, and any component you invented with its states (default, focused, selected, disabled, error).
+- **Requesting a new token or an exception:** state the need, the screen, the alternative you tried inside the rules, and the contrast numbers if it is a colour. Do not ship a one-off hex.
+- **Checklist before you send:** one primary per screen · exactly one focus ring · selected differs from focused · red only on LIVE · no amber, yellow or violet UI · no glow, blur or soft shadow · only 12° / 8° angles, never on text · text >= 13 px, body 16 · chalk text on surfaces, ink text on the gradient · lockup file matches the surface and size · mark and lockup not on the same screen · every screen works with the d-pad only.

diff --git a/design/brand-v5/v5.4/BRAND.md b/design/brand-v5/v5.4/BRAND.md
@@ -6,6 +6,13 @@ Scope: branding and component language. Screen layout is not designed here (UI p
 
 Everything is generated from `tools/palette.js` and checked by `tools/contrast.js` (**0 failures**). `tokens.css` is the source of truth for code. Nothing is trademark-cleared (personal app); known overlaps are in section 13.
 
+## v5.4 final fixes (reviewer-approved 7.5/10; UI phase starts)
+
+- **i-dot:** the wedge i-dot is used only at 40 px high and up (`lockup.svg`, `lockup-chalk.svg`). Below 40 px, and on the banner, use the round-dot files (`lockup-compact.svg`, `lockup-chalk-compact.svg`).
+- **Gradient wordmark rule:** the gradient "glow" appears **only on bg-0** (the canvas). On bg-1, surfaces, artwork, gradients or anything else, use the all-chalk lockup (`lockup-chalk*.svg`; the wedge is chalk and the bands are chalk at 30 / 50 / 70% opacity).
+- **Banner:** the primary banner ramp is deepened at the right end (`#4F24C4` / `#A030CC` / `#C03C8C`) so chalk is at least 4.5:1 behind the lockup (measured 4.54:1 over the lockup area). The icon tile keeps the owner's brighter ramp.
+- **"ai" name risk: accepted.** The "ai" reading of airglow is a known and accepted risk (owner decision); it is mitigated by the chalk "air" / gradient "glow" split and tracking, and is not to be revisited in the UI phase.
+
 ## v5.4 changes (answering review #4, 7.0/10)
 
 **Story, one line:** *airglow: a signal travels through the air (the wedge) and leaves a lit afterimage behind it (the stepped bands); the play wedge even dots the "i".*
@@ -56,7 +63,7 @@ The owner chose the **original v5 Soft echo mark** over the v5.2 lit-core mark: 
 | File | What |
 |---|---|
 | `board.png` | one-page summary |
-| `assets/mark.svg` `mark-small.svg` `lockup.svg` | mark (3 bands), small mark (2 bands, 40 px and below), lockup A. Vector only: no `<text>`, no filters, no raster |
+| `assets/mark.svg` `mark-small.svg` `lockup.svg` `lockup-compact.svg` `lockup-chalk.svg` `lockup-chalk-compact.svg` | mark (3 bands), small mark (2 bands, 40 px and below), lockup A. Vector only: no `<text>`, no filters, no raster |
 | `assets/icon-1024.svg/.png`, `icon-small.svg` + `icon-small-256.png`, `icon-foreground`, `icon-background` (+432 px PNGs) | app icon (1024 tile), two-band small icon, Android adaptive layers |
 | `assets/banner.svg/.png/@2x.png`, `banner-dark.svg/.png`, `mark-micro.svg` | Google TV banner 320×180 (gradient primary, dark alternative); plain wedge under 24 px |
 | `tokens.css`, `fonts.css`, `fonts/`, `sprites/` | tokens, 99 KB of woff2, grain sprite only |
@@ -168,7 +175,7 @@ Never: body text, labels, captions, anything over three words; box scores, stand
 
 - **No `filter: blur`, no `backdrop-filter`, no big `box-shadow` spreads.** There are no glows (v5.4): no sprites, no blur, no radial glow in any asset.
 - Gradients: two stops, small elements. The Home backdrop is a flat 2-stop gradient (bg-1 to bg-0). Over large flat fills (hero, banner) add `sprites/grain.png` at its own 7/255 alpha to break banding on 8-bit panels.
-- Mark, lockup, icon and banner use vector radial gradients (no `feGaussianBlur`), so the same SVG is a legal Android VectorDrawable source.
+- Mark, lockup, icon and banner use only solid fills and linear gradients (no radial gradients, no `feGaussianBlur`, no filters), so the same SVGs are legal Android VectorDrawable sources.
 - Fonts: 99 KB, `font-display: swap`; the launch frame uses only outlined SVG, so it does not wait for fonts.
 - Native splash is the static mark: no WebView work before first paint.
 
@@ -202,7 +209,7 @@ v5.1 answered review #1 (6.5/10): stock play with blurred echoes replaced by a h
 
 ## 13. Housekeeping and open items
 
-- Name overlaps: LumenRadio "AirGlow" and a DoPchoice filing. Confusion risk only; nothing is trademark-cleared. The banner is no longer violet-led. Lowercase "ai" remains an unresolved name risk, mitigated by the weight split and gap.
+- Name overlaps: LumenRadio "AirGlow" and a DoPchoice filing. Confusion risk only; nothing is trademark-cleared. The banner is no longer violet-led. The "ai" reading is an accepted risk (owner decision).
 - Not tested: real posters (only synthetic art), surface steps on the Philips panel, the launch animation itself (stills only).
 - Final name decision and a real clearance search if the app leaves personal use.
 
